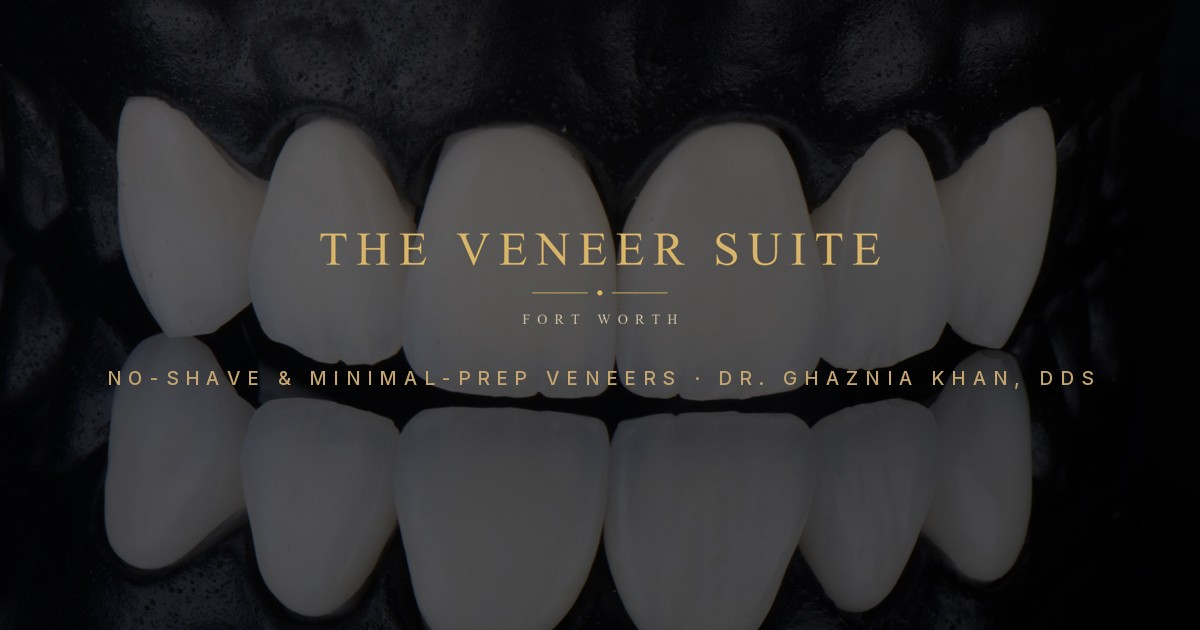
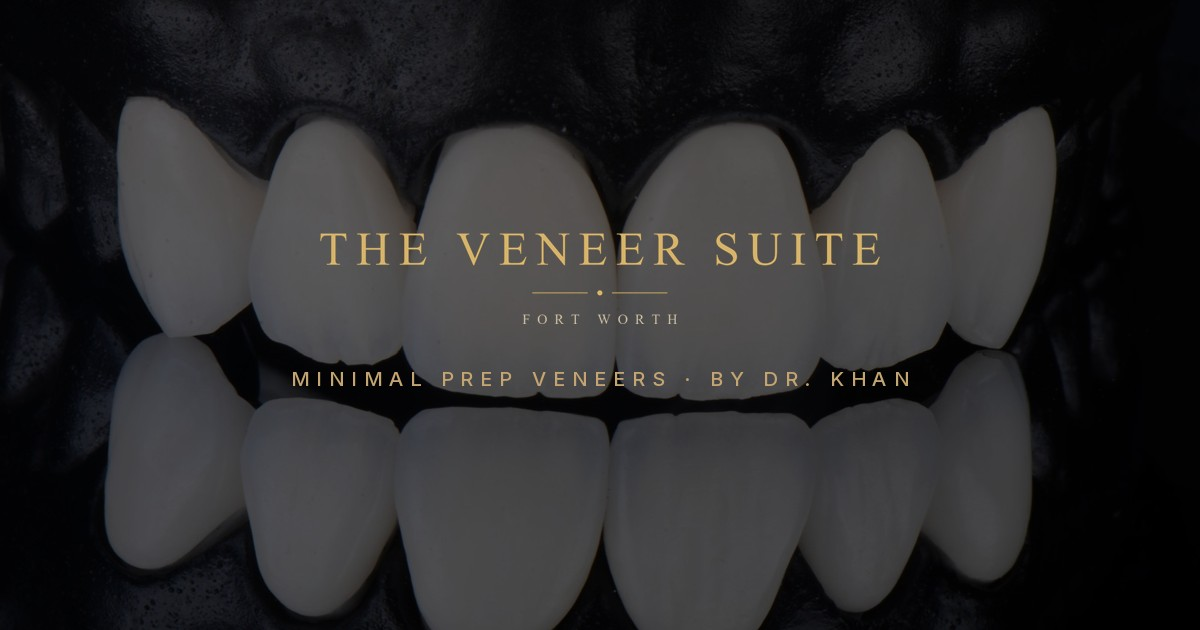
Add files via upload

diff --git a/agent/cloudflare-worker.js b/agent/cloudflare-worker.js
@@ -28,11 +28,11 @@ luxury studio, never a salesy chatbot.
 
 KNOWLEDGE:
 - Dr. Khan (DDS, University of Toronto; taught there; 2,000+ CE hours) focuses on
-  no-shave and minimal-prep porcelain veneers — conservative techniques preserving
+  minimal prep porcelain veneers — conservative techniques preserving
   natural enamel. Porcelain bonds strongest to enamel.
 - Consultation: (i) conversation about goals, (ii) full study of proportion, lip
   line, character, (iii) preview of the designed smile before any commitment.
-- No-shave cases usually need no anesthetic and no temporaries. Candidacy varies
+- Minimal prep cases usually need no anesthetic and no temporaries. Candidacy varies
   and the consultation determines it honestly.
 - DESTINATION PATIENTS: many patients travel or fly in for treatment. The
   cosmetic concierge arranges flights, hotel, and airport shuttle, and the
@@ -146,8 +146,69 @@ async function callClaude(messages, env) {
   return r.json();
 }
 
+
+// ── conversation logging (Cloudflare KV, optional) ──────────────
+// Bind a KV namespace as CHATLOG and set secret LOG_TOKEN to enable.
+async function logConversation(env, cid, messages, reply, booked) {
+  if (!env.CHATLOG || !cid) return;
+  try {
+    const day = new Date().toISOString().slice(0, 10);
+    const key = "conv:" + day + ":" + cid;
+    const transcript = messages.concat([{ role: "assistant", content: reply }]);
+    await env.CHATLOG.put(key, JSON.stringify({ updated: Date.now(), booked, transcript }), {
+      expirationTtl: 7776000, // 90 days
+      metadata: { booked: booked, msgs: transcript.length, t: Date.now() }
+    });
+  } catch (e) {}
+}
+
+async function handleAdmin(request, env, cors) {
+  const url = new URL(request.url);
+  if (!env.LOG_TOKEN || url.searchParams.get("token") !== env.LOG_TOKEN) {
+    return new Response(JSON.stringify({ error: "unauthorized" }), { status: 401, headers: { ...cors, "Content-Type": "application/json" } });
+  }
+  if (!env.CHATLOG) {
+    return new Response(JSON.stringify({ error: "CHATLOG KV not bound" }), { status: 500, headers: { ...cors, "Content-Type": "application/json" } });
+  }
+  if (url.pathname === "/stats") {
+    const days = parseInt(url.searchParams.get("days") || "14", 10);
+    const out = [];
+    for (let i = 0; i < days; i++) {
+      const d = new Date(Date.now() - i * 86400000).toISOString().slice(0, 10);
+      let convos = 0, booked = 0, msgs = 0, cursor;
+      do {
+        const page = await env.CHATLOG.list({ prefix: "conv:" + d + ":", cursor });
+        convos += page.keys.length;
+        for (const k of page.keys) {
+          if (k.metadata && k.metadata.booked) booked++;
+          if (k.metadata && k.metadata.msgs) msgs += k.metadata.msgs;
+        }
+        cursor = page.list_complete ? null : page.cursor;
+      } while (cursor);
+      out.push({ day: d, conversations: convos, booked: booked, avg_messages: convos ? Math.round(msgs / convos * 10) / 10 : 0 });
+    }
+    return new Response(JSON.stringify(out, null, 2), { headers: { ...cors, "Content-Type": "application/json" } });
+  }
+  if (url.pathname === "/transcripts") {
+    const day = url.searchParams.get("day") || new Date().toISOString().slice(0, 10);
+    const list = await env.CHATLOG.list({ prefix: "conv:" + day + ":" });
+    const out = [];
+    for (const k of list.keys.slice(0, 50)) {
+      const v = await env.CHATLOG.get(k.name, "json");
+      if (v) out.push({ id: k.name.split(":")[2], booked: v.booked, transcript: v.transcript });
+    }
+    return new Response(JSON.stringify(out, null, 2), { headers: { ...cors, "Content-Type": "application/json" } });
+  }
+  return new Response(JSON.stringify({ endpoints: ["/stats?days=14", "/transcripts?day=YYYY-MM-DD"] }), { headers: { ...cors, "Content-Type": "application/json" } });
+}
+
 export default {
   async fetch(request, env) {
+    const _u = new URL(request.url);
+    const _cors2 = { "Access-Control-Allow-Origin": "*" };
+    if (request.method === "GET" && (_u.pathname === "/stats" || _u.pathname === "/transcripts")) {
+      return handleAdmin(request, env, _cors2);
+    }
     const cors = {
       "Access-Control-Allow-Origin": "https://fortworthveneersuite.com",
       "Access-Control-Allow-Headers": "Content-Type",
@@ -160,7 +221,7 @@ export default {
       return new Response(JSON.stringify({ error: "not configured" }), { status: 500, headers: { ...cors, "Content-Type": "application/json" } });
 
     try {
-      const { messages } = await request.json();
+      const { messages, cid } = await request.json();
       if (!Array.isArray(messages) || !messages.length || messages.length > 40)
         return new Response(JSON.stringify({ error: "bad request" }), { status: 400, headers: { ...cors, "Content-Type": "application/json" } });
 
@@ -191,6 +252,7 @@ export default {
 
       if (!reply) reply = "Thank you — the team will reach out within one business day. If anything is urgent, please call 817-926-1300.";
 
+      await logConversation(env, cid, messages, reply, booked);
       return new Response(JSON.stringify({
         reply,
         booked,

diff --git a/index.html b/index.html
@@ -2,6 +2,8 @@
 <html lang="en">
 <head>
 <meta charset="UTF-8">
+<script>(function(w,d,t,r,u){var f,n,i;w[u]=w[u]||[],f=function(){var o={ti:"343266816", enableAutoSpaTracking:true};o.q=w[u],w[u]=new UET(o),w[u].push("pageLoad")},n=d.createElement(t),n.src=r,n.async=1,n.onload=n.onreadystatechange=function(){var s=this.readyState;s&&s!=="loaded"&&s!=="complete"||(f(),n.onload=n.onreadystatechange=null)},i=d.getElementsByTagName(t)[0],i.parentNode.insertBefore(n,i)})(window,document,"script","//bat.bing.com/bat.js","uetq");</script>
+
 <!-- Google tag (gtag.js) — Veneer Suite Ads -->
 <script async src="https://www.googletagmanager.com/gtag/js?id=AW-18390081241"></script>
 <script>
@@ -11,6 +13,7 @@
   gtag('config', 'AW-18390081241');
   function vsConsultConversion(){
     try { gtag('event', 'conversion', { 'send_to': 'AW-18390081241/Ll24CJve3eEcENm9icFE' }); } catch(e){}
+    try { window.uetq = window.uetq || []; window.uetq.push('event', 'consult_request', {}); } catch(e){}
   }
 </script>
 

diff --git a/blog/no-shave-veneers-explained.html b/blog/no-shave-veneers-explained.html
@@ -1,5 +1,7 @@
 <!DOCTYPE html>
 <html lang="en"><head><meta charset="UTF-8">
+<script>(function(w,d,t,r,u){var f,n,i;w[u]=w[u]||[],f=function(){var o={ti:"343266816", enableAutoSpaTracking:true};o.q=w[u],w[u]=new UET(o),w[u].push("pageLoad")},n=d.createElement(t),n.src=r,n.async=1,n.onload=n.onreadystatechange=function(){var s=this.readyState;s&&s!=="loaded"&&s!=="complete"||(f(),n.onload=n.onreadystatechange=null)},i=d.getElementsByTagName(t)[0],i.parentNode.insertBefore(n,i)})(window,document,"script","//bat.bing.com/bat.js","uetq");</script>
+
 <!-- Google tag (gtag.js) — Veneer Suite Ads -->
 <script async src="https://www.googletagmanager.com/gtag/js?id=AW-18390081241"></script>
 <script>

diff --git a/blog/how-long-do-minimal-prep-veneers-last.html b/blog/how-long-do-minimal-prep-veneers-last.html
@@ -2,6 +2,8 @@
 <html lang="en">
 <head>
 <meta charset="UTF-8">
+<script>(function(w,d,t,r,u){var f,n,i;w[u]=w[u]||[],f=function(){var o={ti:"343266816", enableAutoSpaTracking:true};o.q=w[u],w[u]=new UET(o),w[u].push("pageLoad")},n=d.createElement(t),n.src=r,n.async=1,n.onload=n.onreadystatechange=function(){var s=this.readyState;s&&s!=="loaded"&&s!=="complete"||(f(),n.onload=n.onreadystatechange=null)},i=d.getElementsByTagName(t)[0],i.parentNode.insertBefore(n,i)})(window,document,"script","//bat.bing.com/bat.js","uetq");</script>
+
 <!-- Google tag (gtag.js) — Veneer Suite Ads -->
 <script async src="https://www.googletagmanager.com/gtag/js?id=AW-18390081241"></script>
 <script>

diff --git a/blog/minimal-prep-veneers-explained.html b/blog/minimal-prep-veneers-explained.html
@@ -2,6 +2,8 @@
 <html lang="en">
 <head>
 <meta charset="UTF-8">
+<script>(function(w,d,t,r,u){var f,n,i;w[u]=w[u]||[],f=function(){var o={ti:"343266816", enableAutoSpaTracking:true};o.q=w[u],w[u]=new UET(o),w[u].push("pageLoad")},n=d.createElement(t),n.src=r,n.async=1,n.onload=n.onreadystatechange=function(){var s=this.readyState;s&&s!=="loaded"&&s!=="complete"||(f(),n.onload=n.onreadystatechange=null)},i=d.getElementsByTagName(t)[0],i.parentNode.insertBefore(n,i)})(window,document,"script","//bat.bing.com/bat.js","uetq");</script>
+
 <!-- Google tag (gtag.js) — Veneer Suite Ads -->
 <script async src="https://www.googletagmanager.com/gtag/js?id=AW-18390081241"></script>
 <script>

diff --git a/blog/no-prep-veneer-candidacy.html b/blog/no-prep-veneer-candidacy.html
@@ -2,6 +2,8 @@
 <html lang="en">
 <head>
 <meta charset="UTF-8">
+<script>(function(w,d,t,r,u){var f,n,i;w[u]=w[u]||[],f=function(){var o={ti:"343266816", enableAutoSpaTracking:true};o.q=w[u],w[u]=new UET(o),w[u].push("pageLoad")},n=d.createElement(t),n.src=r,n.async=1,n.onload=n.onreadystatechange=function(){var s=this.readyState;s&&s!=="loaded"&&s!=="complete"||(f(),n.onload=n.onreadystatechange=null)},i=d.getElementsByTagName(t)[0],i.parentNode.insertBefore(n,i)})(window,document,"script","//bat.bing.com/bat.js","uetq");</script>
+
 <!-- Google tag (gtag.js) — Veneer Suite Ads -->
 <script async src="https://www.googletagmanager.com/gtag/js?id=AW-18390081241"></script>
 <script>

diff --git a/privacy.html b/privacy.html
@@ -2,6 +2,8 @@
 <html lang="en">
 <head>
 <meta charset="UTF-8">
+<script>(function(w,d,t,r,u){var f,n,i;w[u]=w[u]||[],f=function(){var o={ti:"343266816", enableAutoSpaTracking:true};o.q=w[u],w[u]=new UET(o),w[u].push("pageLoad")},n=d.createElement(t),n.src=r,n.async=1,n.onload=n.onreadystatechange=function(){var s=this.readyState;s&&s!=="loaded"&&s!=="complete"||(f(),n.onload=n.onreadystatechange=null)},i=d.getElementsByTagName(t)[0],i.parentNode.insertBefore(n,i)})(window,document,"script","//bat.bing.com/bat.js","uetq");</script>
+
 <!-- Google tag (gtag.js) — Veneer Suite Ads -->
 <script async src="https://www.googletagmanager.com/gtag/js?id=AW-18390081241"></script>
 <script>

diff --git a/agent/README.md b/agent/README.md
@@ -15,7 +15,26 @@ consultation fee.
   API key server-side, enforces the consultation-only system prompt, forwards
   completed bookings to a webhook, appends the payment link.
 
-## Deploy (about 30 minutes)
+## Deploy on Cloudflare Workers (recommended — matches your stack, ~20 min)
+
+The site is on GitHub Pages + Cloudflare, which can't run the Vercel function.
+Use `cloudflare-worker.js` instead — it's the AGENTIC version (real tool use:
+the model itself submits the booking mid-conversation).
+
+1. Cloudflare dashboard → Workers & Pages → Create → Worker → paste
+   `cloudflare-worker.js` → Deploy. Note the worker URL.
+2. Worker → Settings → Variables and Secrets:
+   - `ANTHROPIC_API_KEY` (required, from console.anthropic.com)
+   - `FORMSPREE_ID` (recommended — same form as the site intake)
+   - `BOOKING_WEBHOOK_URL`, `STRIPE_PAYMENT_LINK`, `CONSULT_FEE` (optional)
+3. In index.html set the widget tag:
+   `<script src="agent/concierge-widget.js" data-endpoint="https://<your-worker>.workers.dev" defer>`
+4. Commit index.html; test after the Pages deploy goes green.
+
+CORS is locked to https://fortworthveneersuite.com in the worker — edit if the
+domain changes.
+
+## Deploy on Vercel (alternative, non-agentic version)
 
 1. **Host the site on Vercel** (drag the veneer-suite folder into a Vercel
    project, or connect a git repo). The `agent/api/concierge.js` file must be
